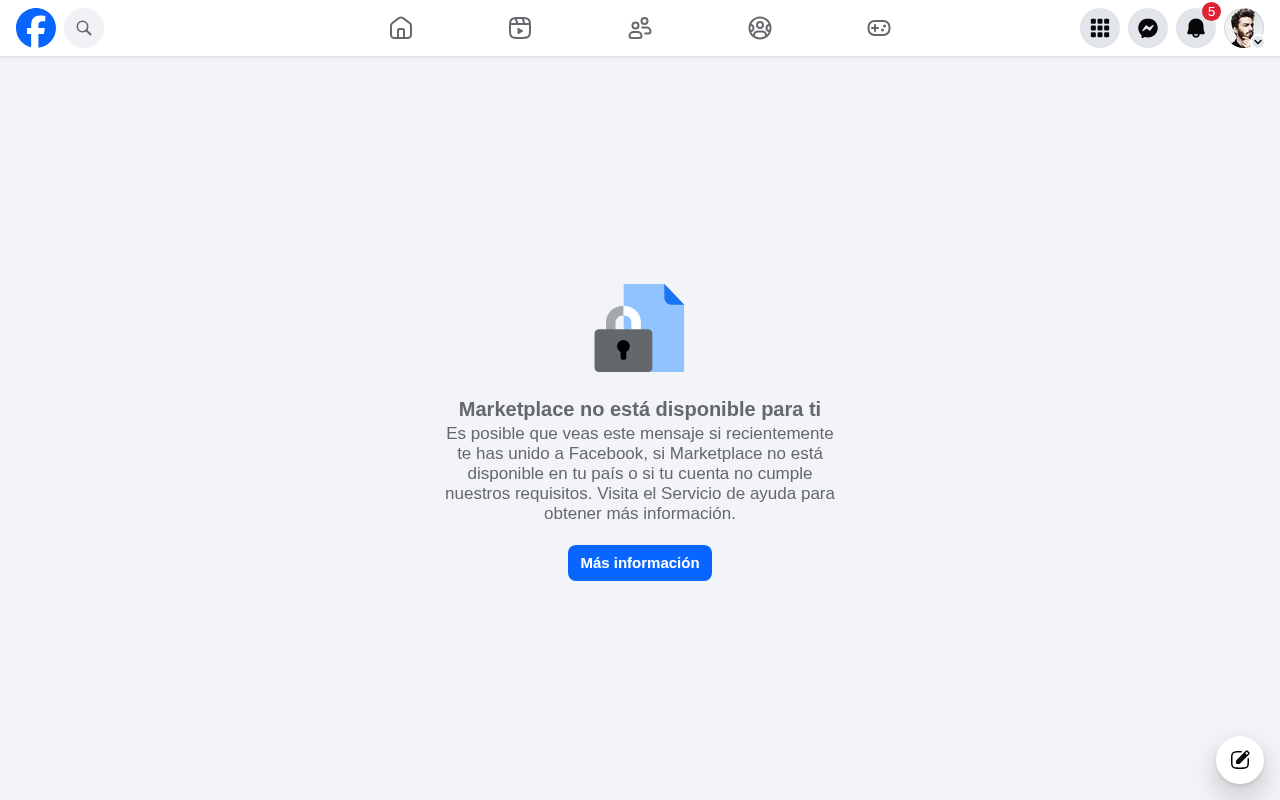
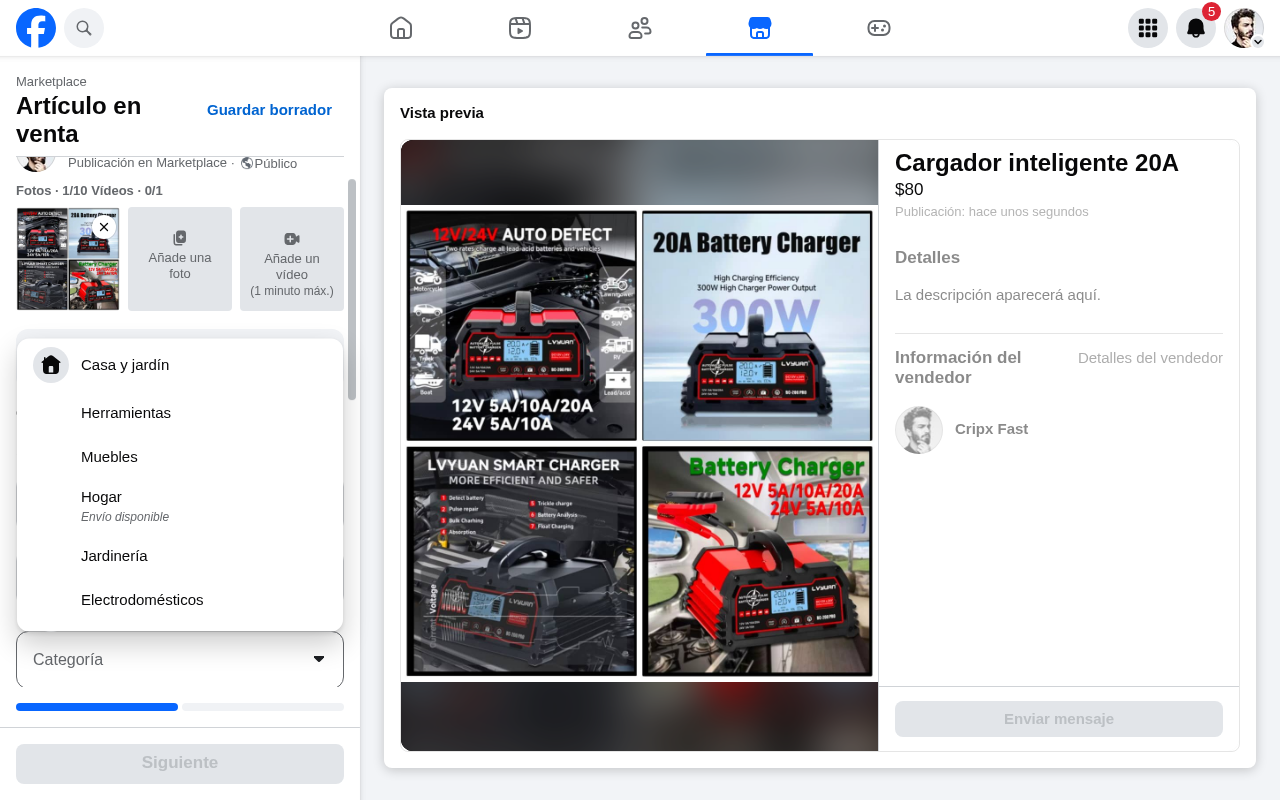
Add files via upload

diff --git a/backend/revolico_agent.py b/backend/revolico_agent.py
@@ -567,32 +567,36 @@ class SocialAgent:
 
                 # 2. Título (Probamos múltiples selectores)
                 logger.info("Llenando título...")
-                # Selectores ordenados por prioridad: ID directo, placeholder ES, placeholder EN, aria-label, etc.
+                # Revolico a veces usa un input, a veces un textarea, a veces un div editable.
+                # Buscamos por ID, por nombre, por placeholder y por posición.
                 titulo_selectors = [
-                    '#title', 'input[name="title"]', 'input[placeholder*="título"]', 
-                    'input[placeholder*="Título"]', 'textarea[placeholder*="título"]', 
-                    'input[aria-label*="título"]', 'input[aria-label*="Título"]'
+                    '#title', 'input[name="title"]', 'textarea[name="title"]',
+                    'input[placeholder*="título" i]', 'input[placeholder*="Título" i]',
+                    'textarea[placeholder*="título" i]', 'textarea[placeholder*="Título" i]',
+                    'input[aria-label*="título" i]', 'div[role="textbox"]',
+                    '.publish-form-title input', '.form-group input'
                 ]
                 titulo_ok = False
                 for sel in titulo_selectors:
                     try:
-                        if self.page.query_selector(sel):
-                            self.page.fill(sel, nombre)
+                        el = self.page.query_selector(sel)
+                        if el and el.is_visible():
+                            el.fill(nombre)
                             titulo_ok = True
                             logger.info(f"✅ Título llenado con selector: {sel}")
                             break
                     except: continue
                 
                 if not titulo_ok:
-                    # Intento desesperado: buscar el primer input de texto
-                    inputs = self.page.query_selector_all('input[type="text"]')
-                    if inputs:
-                        inputs[0].fill(nombre)
-                        titulo_ok = True
-                        logger.info("✅ Título llenado en el primer input de texto")
+                    # Intento por posición: el primer input que no sea oculto
+                    logger.info("Intentando llenar título por posición...")
+                    self.page.keyboard.press("Tab")
+                    time.sleep(0.5)
+                    self.page.keyboard.type(nombre)
+                    titulo_ok = True # Asumimos que funcionó el tabulador
 
                 if not titulo_ok:
-                    return {'success': False, 'error': 'No se encontró el formulario de publicación (campo título)'}
+                    return {'success': False, 'error': 'No se pudo encontrar el campo de título en el formulario.'}
 
                 # 3. Precio
                 logger.info("Llenando precio...")

diff --git a/backend/app.py b/backend/app.py
@@ -328,7 +328,28 @@ def iniciar_scheduler():
 
 
 if __name__ == '__main__':
+    print("\n" + "="*40)
+    print("🚀 INICIANDO BACKEND TIENDAMAX")
+    print("="*40)
+    
     os.makedirs(DATA_DIR, exist_ok=True)
+    
+    # Verificación de dependencias críticas
+    try:
+        import playwright
+        print("✅ Playwright: Detectado")
+    except ImportError:
+        print("❌ ERROR: Playwright no instalado. Ejecuta 'bash setup.sh'")
+        
+    try:
+        import flask_cors
+        print("✅ Flask-CORS: Detectado")
+    except ImportError:
+        print("❌ ERROR: Flask-CORS no instalado. Ejecuta 'bash setup.sh'")
+
     iniciar_scheduler()
-    logger.info("🚀 Backend TiendaMax iniciado en puerto 5002")
+    print("✅ Publicación automática: Programada (8AM y 5PM Cuba)")
+    print("📡 Servidor: Escuchando en puerto 5002")
+    print("="*40 + "\n")
+    
     app.run(host='0.0.0.0', port=5002, debug=False)